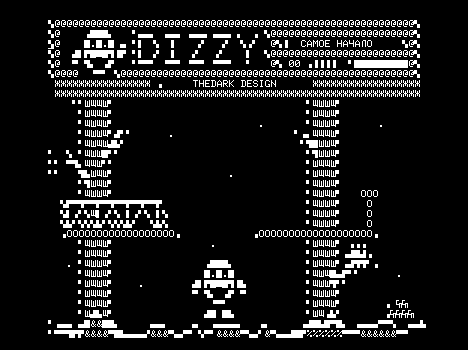
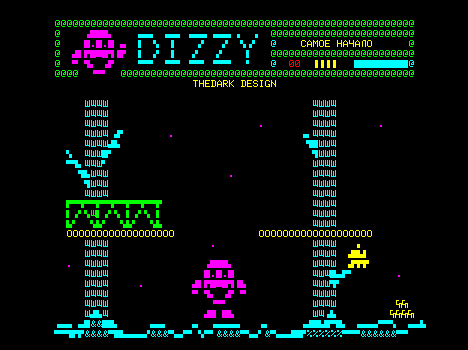
docs: simplify terminology, drop stale spec-file references
- "colorized RK86-корпуса" → "цветной РК" / "цветной режим" across
  RK86.md and CHANGELOG.md
- Drop dangling references to info/rk86_i8275_color_spec.md (file
  was already merged into RK86.md and removed)
- mon32-color.bin/info.md: shorter description without per-program
  enumeration
- Refreshed dizzy75 screenshot

Changed region(s): [[0.0897, 0.0571, 0.9274, 0.9714], [0.3889, 0.7429, 0.5385, 0.8571]]

diff --git a/info/RK86.md b/info/RK86.md
@@ -226,7 +226,7 @@ transparent (FA-клетка заполняется дополнительным
   например `tree2025.rk` с её layout-ом упакованного цвета
   `[FA][char]…`.
 - **`kit/static/files/mon32-color.bin`** — патченный, байт 4 = `D3h`
-  (visible). Используйте его для colorized RK86-корпуса, который
+  (visible). Используйте его для цветного режима, который
   рассчитан на visible-mode программирование чипа (dizzy75, squash,
   boulder, rise, piton, …) — эти программы раскладывают экранную
   RAM как `[FA][char][zeros]…` и полагаются на то, что FA-клетка
@@ -343,7 +343,7 @@ GPA0↔GPA1 местами на уровне платы, что даёт ещё 
 Поведение совпадает с 86rk.ru — Emu80 в его специфическом
 RCM_COLOR1 mode сдвигает цветовые границы на одну клетку влево; мы
 этого не делаем, чтобы соответствовать тому, как РК-программы
-выглядят в 86rk.ru (de-facto reference для colorized RK86-софта).
+выглядят в 86rk.ru.
 
 Blink: бит B (бит 1 FA-байта) включает мигание для последующих
 ячеек до следующего FA. Чип на реальном железе тогглит VSP на

diff --git a/kit/static/catalog/mon32-color.bin/info.md b/kit/static/catalog/mon32-color.bin/info.md
@@ -1,1 +1,1 @@
-Монитор 32КБ с visible field-attribute mode (i8275 reset byte 4 = 0xD3 вместо vanilla 0x93). Используется для colorized RK86-программ, которые рассчитаны на этот режим (dizzy75, squash, boulder, rise, piton). Загружается через URL-параметр `?monitor=mon32-color.bin` (web) или `-m static/files/mon32-color.bin` (terminal).
+Монитор 32КБ с visible field-attribute mode (i8275 reset byte 4 = 0xD3 вместо vanilla 0x93). Используется для цветных программ для РК, которые рассчитаны на этот режим. Загружается через URL-параметр `?monitor=mon32-color.bin` (web) или `-m static/files/mon32-color.bin` (terminal).
